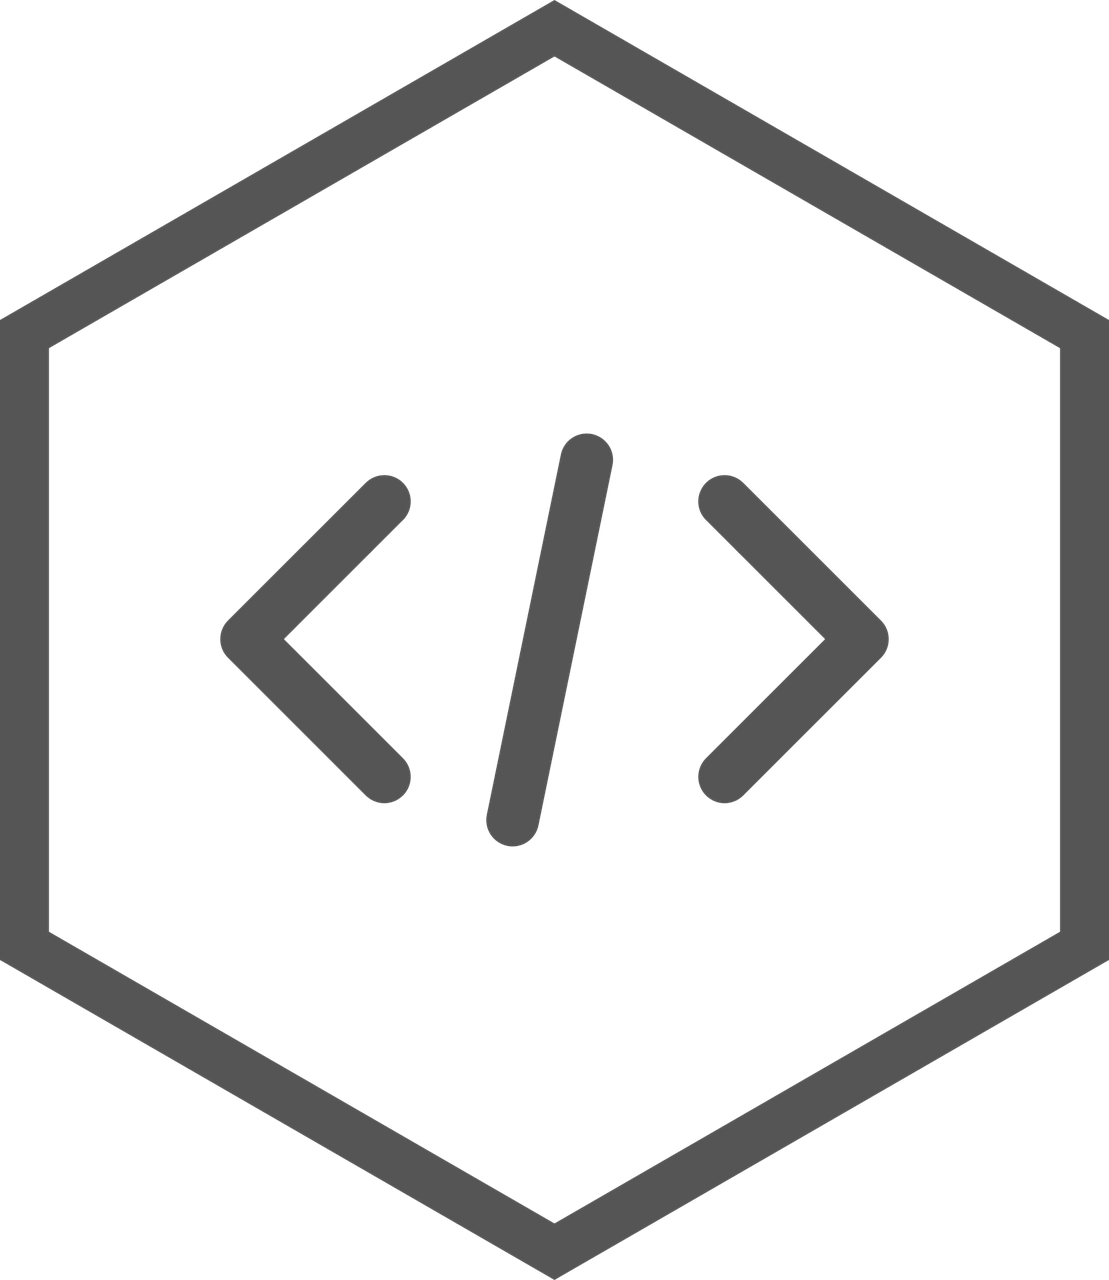
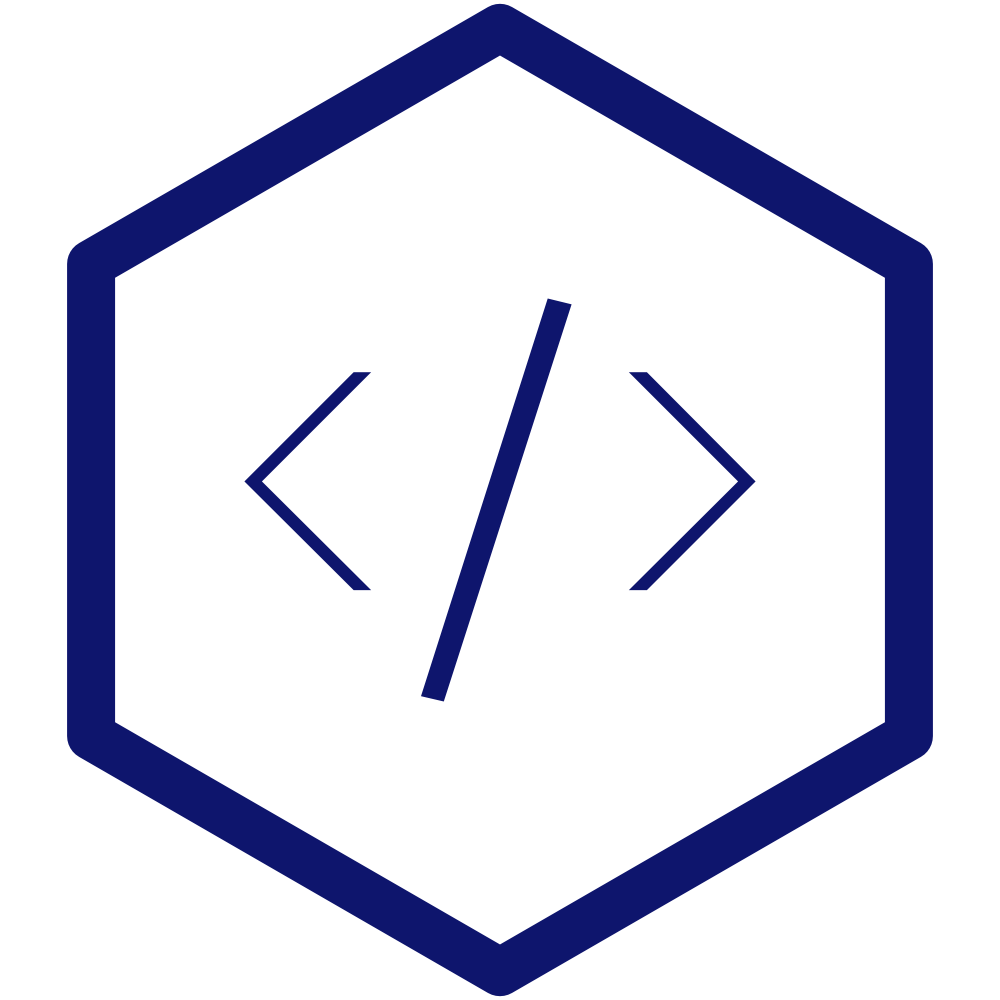
Removed unnecessary image

diff --git a/index.html b/index.html
@@ -326,7 +326,7 @@
       <div class="container">
         <div class="row">
           <div class="col-md-6 op-1">
-            <img src="images/hexagon-icon2.png" alt="" />
+            <img src="images/hexagon-icon.png" alt="" />
           </div>
 
           <div class="col-md-6">
